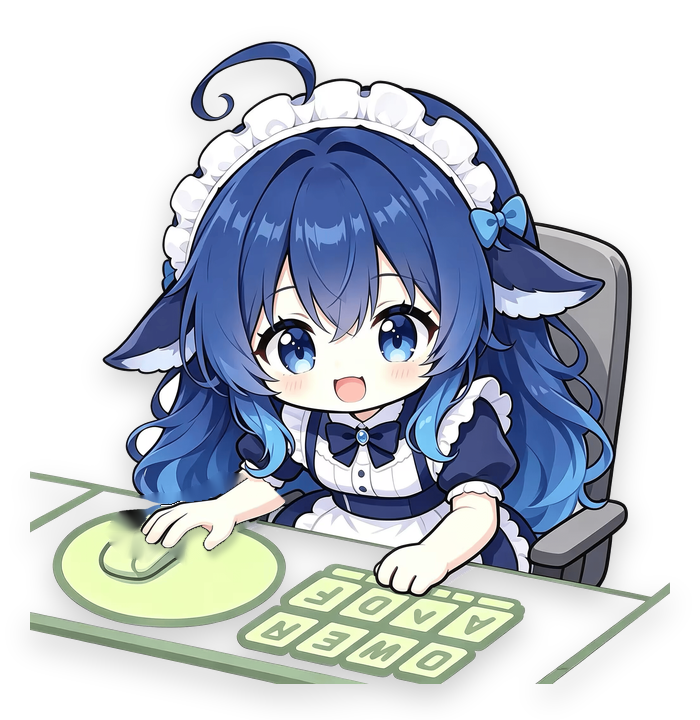
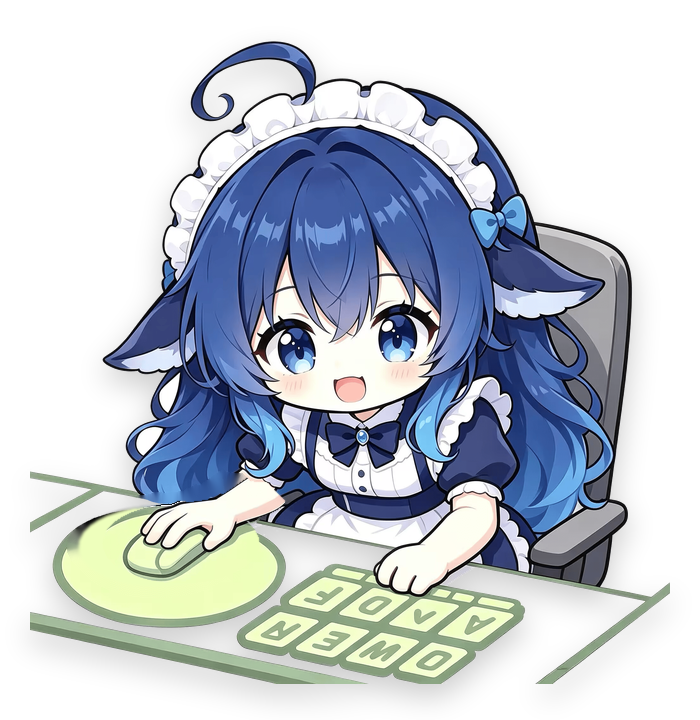
让鼠标与左手一起移动
将鼠标本体并入左手图层，使鼠标随手部同步平移；鼠标垫和键盘保持固定，并补充鼠标跟随预览。

Changed region(s): [[0.12, 0.7028, 0.39, 0.825], [0.09, 0.7333, 0.12, 0.7639]]

diff --git a/tools/build_assets.py b/tools/build_assets.py
@@ -47,6 +47,10 @@ HAND_LEFT_MOUSE = {
            (165, 470), (180, 478), (195, 478)],
     "bg": [(65, 510), (80, 520), (220, 500), (225, 450),
            (200, 440), (65, 455)],
+    # The small mouse sits under the paw.  Include that oval patch in the
+    # moving layer so the device travels with the hand; the pad itself stays
+    # fixed because this patch is only slightly larger than the mouse.
+    "extra_ellipse": (48, 470, 205, 550),
 }
 
 
@@ -104,6 +108,16 @@ def split_hand(scene: Image.Image, spec: dict) -> tuple[Image.Image, Image.Image
     full = np.zeros(arr.shape[:2], np.uint8)
     full[y0:y1, x0:x1] = hand
 
+    ellipse = spec.get("extra_ellipse")
+    extra = None
+    if ellipse:
+        ex0, ey0, ex1, ey1 = ellipse
+        cx, cy = (ex0 + ex1) / 2, (ey0 + ey1) / 2
+        rx, ry = max(1, (ex1 - ex0) / 2), max(1, (ey1 - ey0) / 2)
+        yy, xx = np.ogrid[: arr.shape[0], : arr.shape[1]]
+        extra = (((xx - cx) / rx) ** 2 + ((yy - cy) / ry) ** 2) <= 1.0
+        full[extra] = 1
+
     # The sticker keeps only the paw + its ink outline.
     sticker_alpha = Image.fromarray((full * 255).astype(np.uint8))
     sticker_alpha = sticker_alpha.filter(ImageFilter.GaussianBlur(0.55))
@@ -119,14 +133,24 @@ def split_hand(scene: Image.Image, spec: dict) -> tuple[Image.Image, Image.Image
         cv2.cvtColor(inpainted, cv2.COLOR_BGR2RGB),
         arr[:, :, 3],
     ]).astype(np.uint8)
-    return sticker, Image.fromarray(clean, "RGBA")
+    clean_image = Image.fromarray(clean, "RGBA")
+    if extra is not None:
+        # Inpainting a patch containing the dark mouse outline produces a dark
+        # crater.  The mouse travels with the paw, so fill that patch with the
+        # surrounding flat pad colour instead; when the mouse slides away, the
+        # exposed pad looks clean.
+        pad = Image.new("RGBA", scene.size, (238, 255, 188, 255))
+        fill_alpha = Image.fromarray((extra * 255).astype(np.uint8))
+        fill_alpha = fill_alpha.filter(ImageFilter.GaussianBlur(1.4))
+        clean_image = Image.composite(pad, clean_image, fill_alpha)
+    return sticker, clean_image
 
 
 def compose_hand(base: Image.Image, sticker: Image.Image,
-                 dx: float, dy: float) -> Image.Image:
+                 dx: float, dy: float, shadow: bool = True) -> Image.Image:
     composed = base.copy()
     distance = (dx * dx + dy * dy) ** 0.5
-    if distance > 4:
+    if shadow and distance > 4:
         # A soft contact shadow that travels with the hand makes the depth
         # separation readable even at 100x100.
         strength = min(0.42, 0.10 + distance / 190.0)
@@ -245,14 +269,14 @@ def build_state(name: str, scene: Image.Image, frames: list[dict]) -> None:
 
 
 def build_hand_state(name: str, base: Image.Image, sticker: Image.Image,
-                     offsets: list[tuple[float, float]]) -> None:
+                     offsets: list[tuple[float, float]], shadow: bool = True) -> None:
     """Save frames with a fixed keyboard/mousepad and an independent hand."""
     target = ASSETS / name
     target.mkdir(parents=True, exist_ok=True)
     for old in target.glob("*.png"):
         old.unlink()
     for i, (dx, dy) in enumerate(offsets):
-        frame = make_frame(compose_hand(base, sticker, dx, dy))
+        frame = make_frame(compose_hand(base, sticker, dx, dy, shadow=shadow))
         frame.save(target / f"{i:02d}.png", optimize=True)
     print(f"{name:5s}: {len(offsets)} frames (separated hand)")
 
@@ -338,7 +362,7 @@ def main() -> None:
     build_hand_state("mouse", mouse_base, mouse_sticker, [
         (0, 0), (24, -3), (45, 1), (55, 5),
         (35, 0), (0, -4), (-36, 1), (-52, 5),
-    ])
+    ], shadow=False)
     build_hand_state("key", key_base, key_sticker, [
         (0, 0), (-4, -16), (0, -38), (2, -62),
         (0, -36), (-2, -12), (0, 4), (0, 0),

diff --git a/README.md b/README.md
@@ -5,7 +5,7 @@
 ## 已实现
 
 - **角色**：使用 `design/feiyu.png` 作为唯一原画，去白底后生成 18 帧透明动画；桌宠窗口为 100×100。
-- **鼠标/键盘活动感知**：只统计“有活动”，不保存按键内容；鼠标移动时左手会在鼠标垫上滑动，键盘敲击时右手会抬起再敲下；待机和拖拽时整张桌子不动，键盘和鼠标垫始终固定，只有独立的手部图层运动。
+- **鼠标/键盘活动感知**：只统计“有活动”，不保存按键内容；鼠标移动时左手会带着鼠标本体在鼠标垫上滑动，鼠标垫本身固定；键盘敲击时右手会抬起再敲下；待机和拖拽时整张桌子不动，键盘和鼠标垫始终固定，只有独立的手部图层运动。
 - **左键拖拽**：按住并移动即可拖走桌宠。
 - **左键短按**：升起 `deep` 气泡。
 - **五次短按**：1.5 秒内累计五次短按，照样弹出 `deep` 气泡（无音效）。
